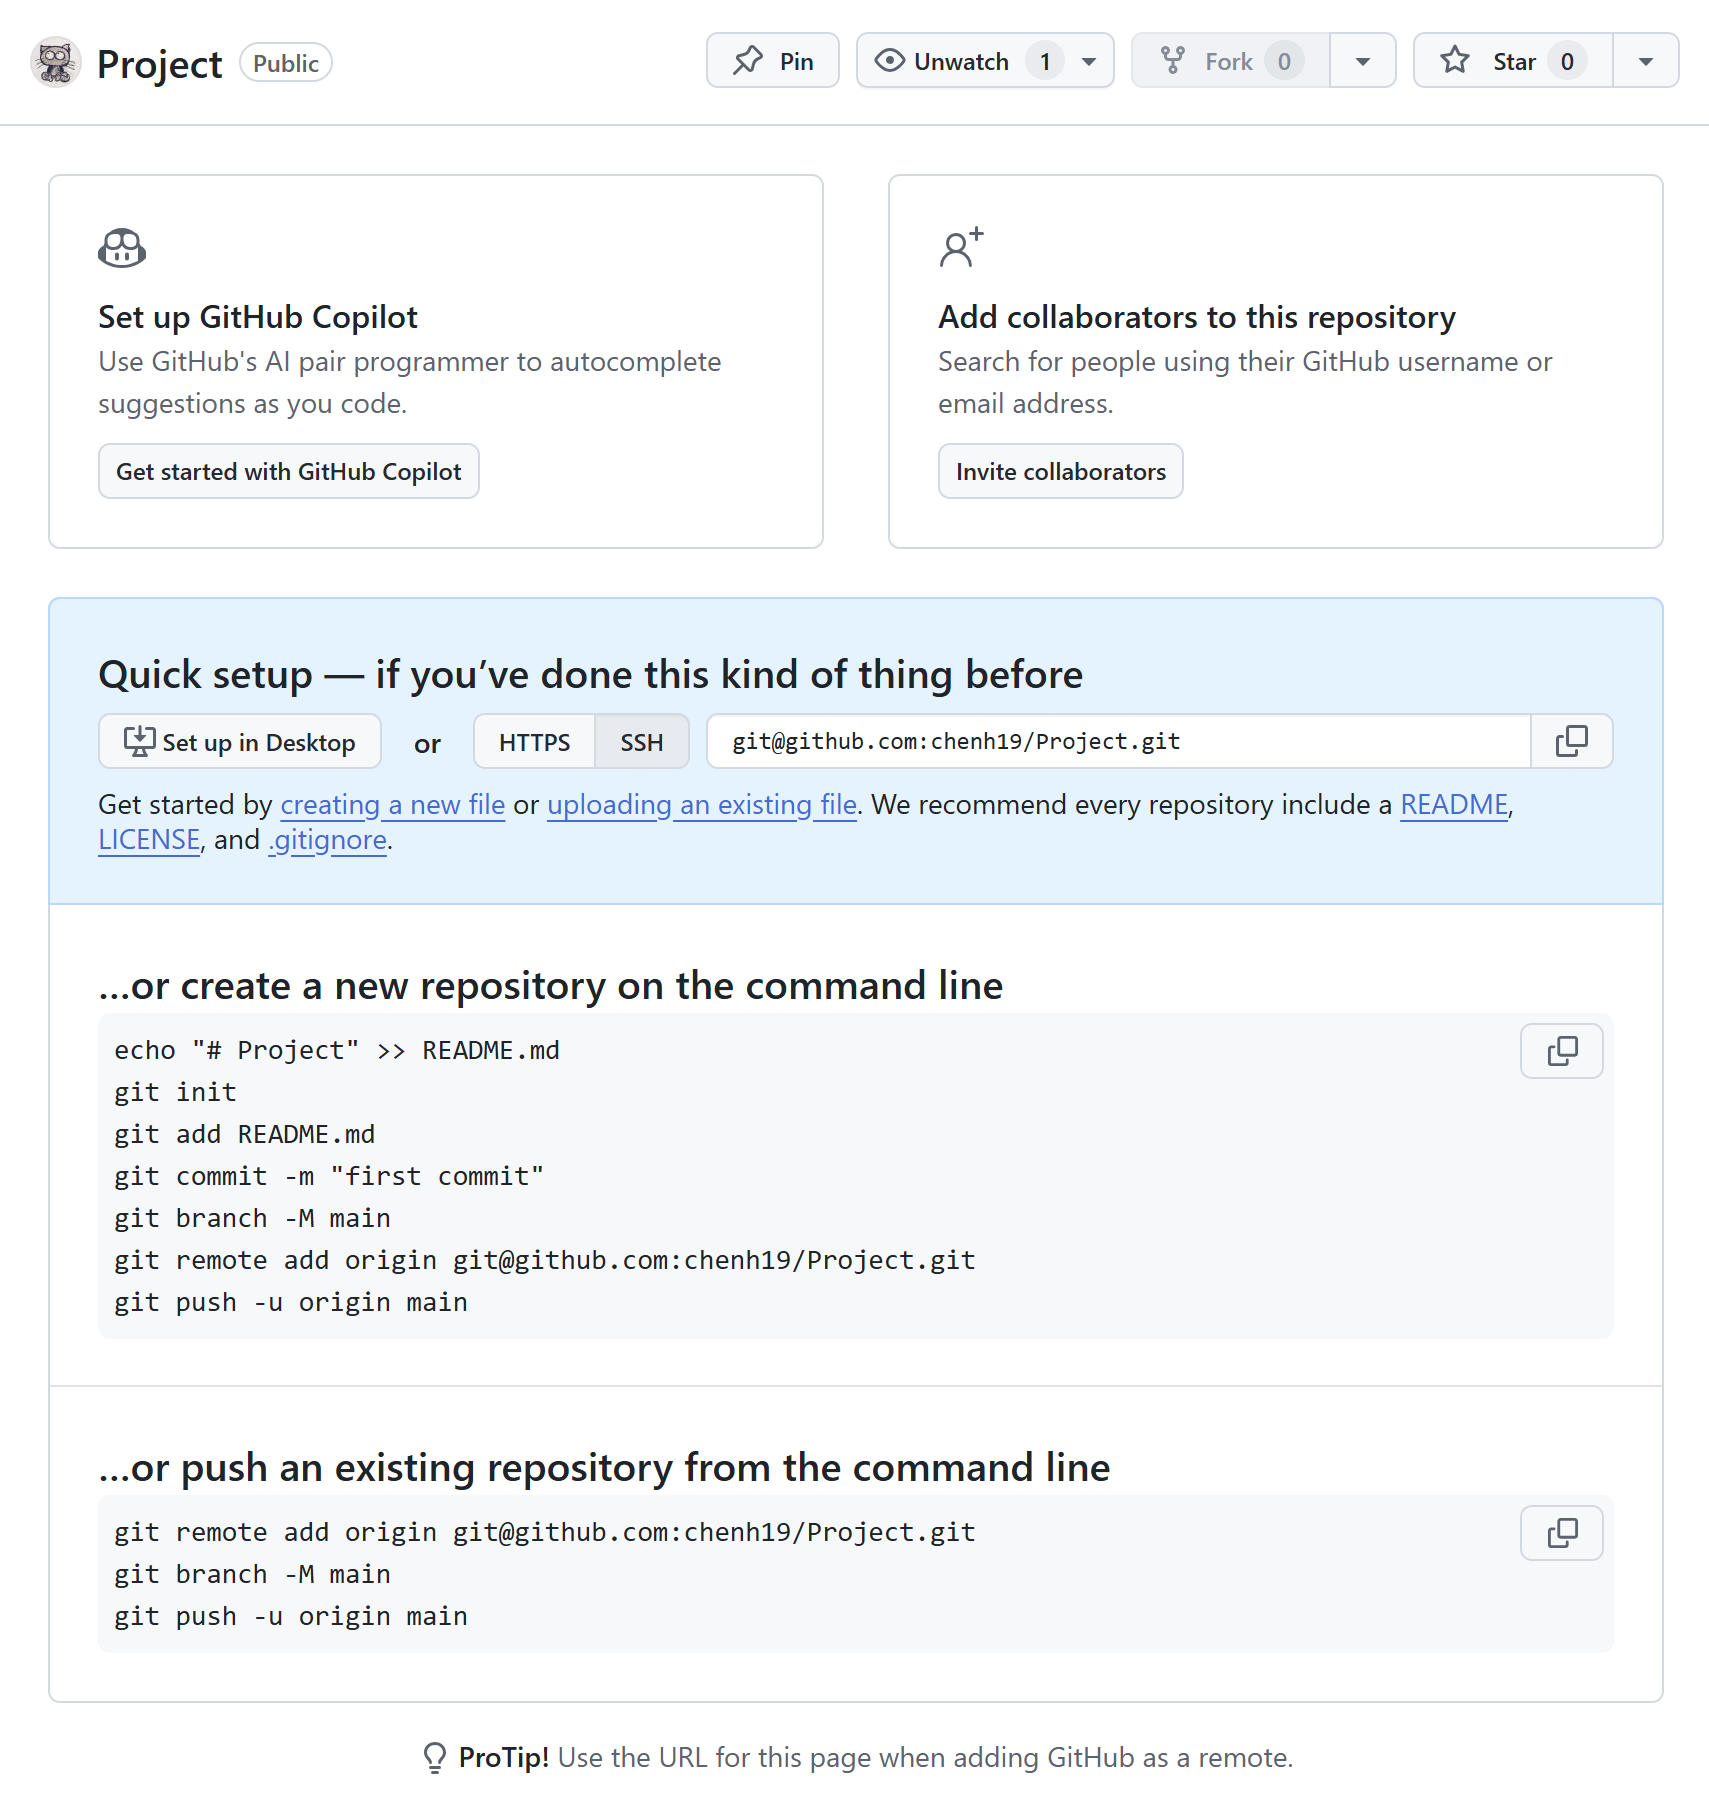
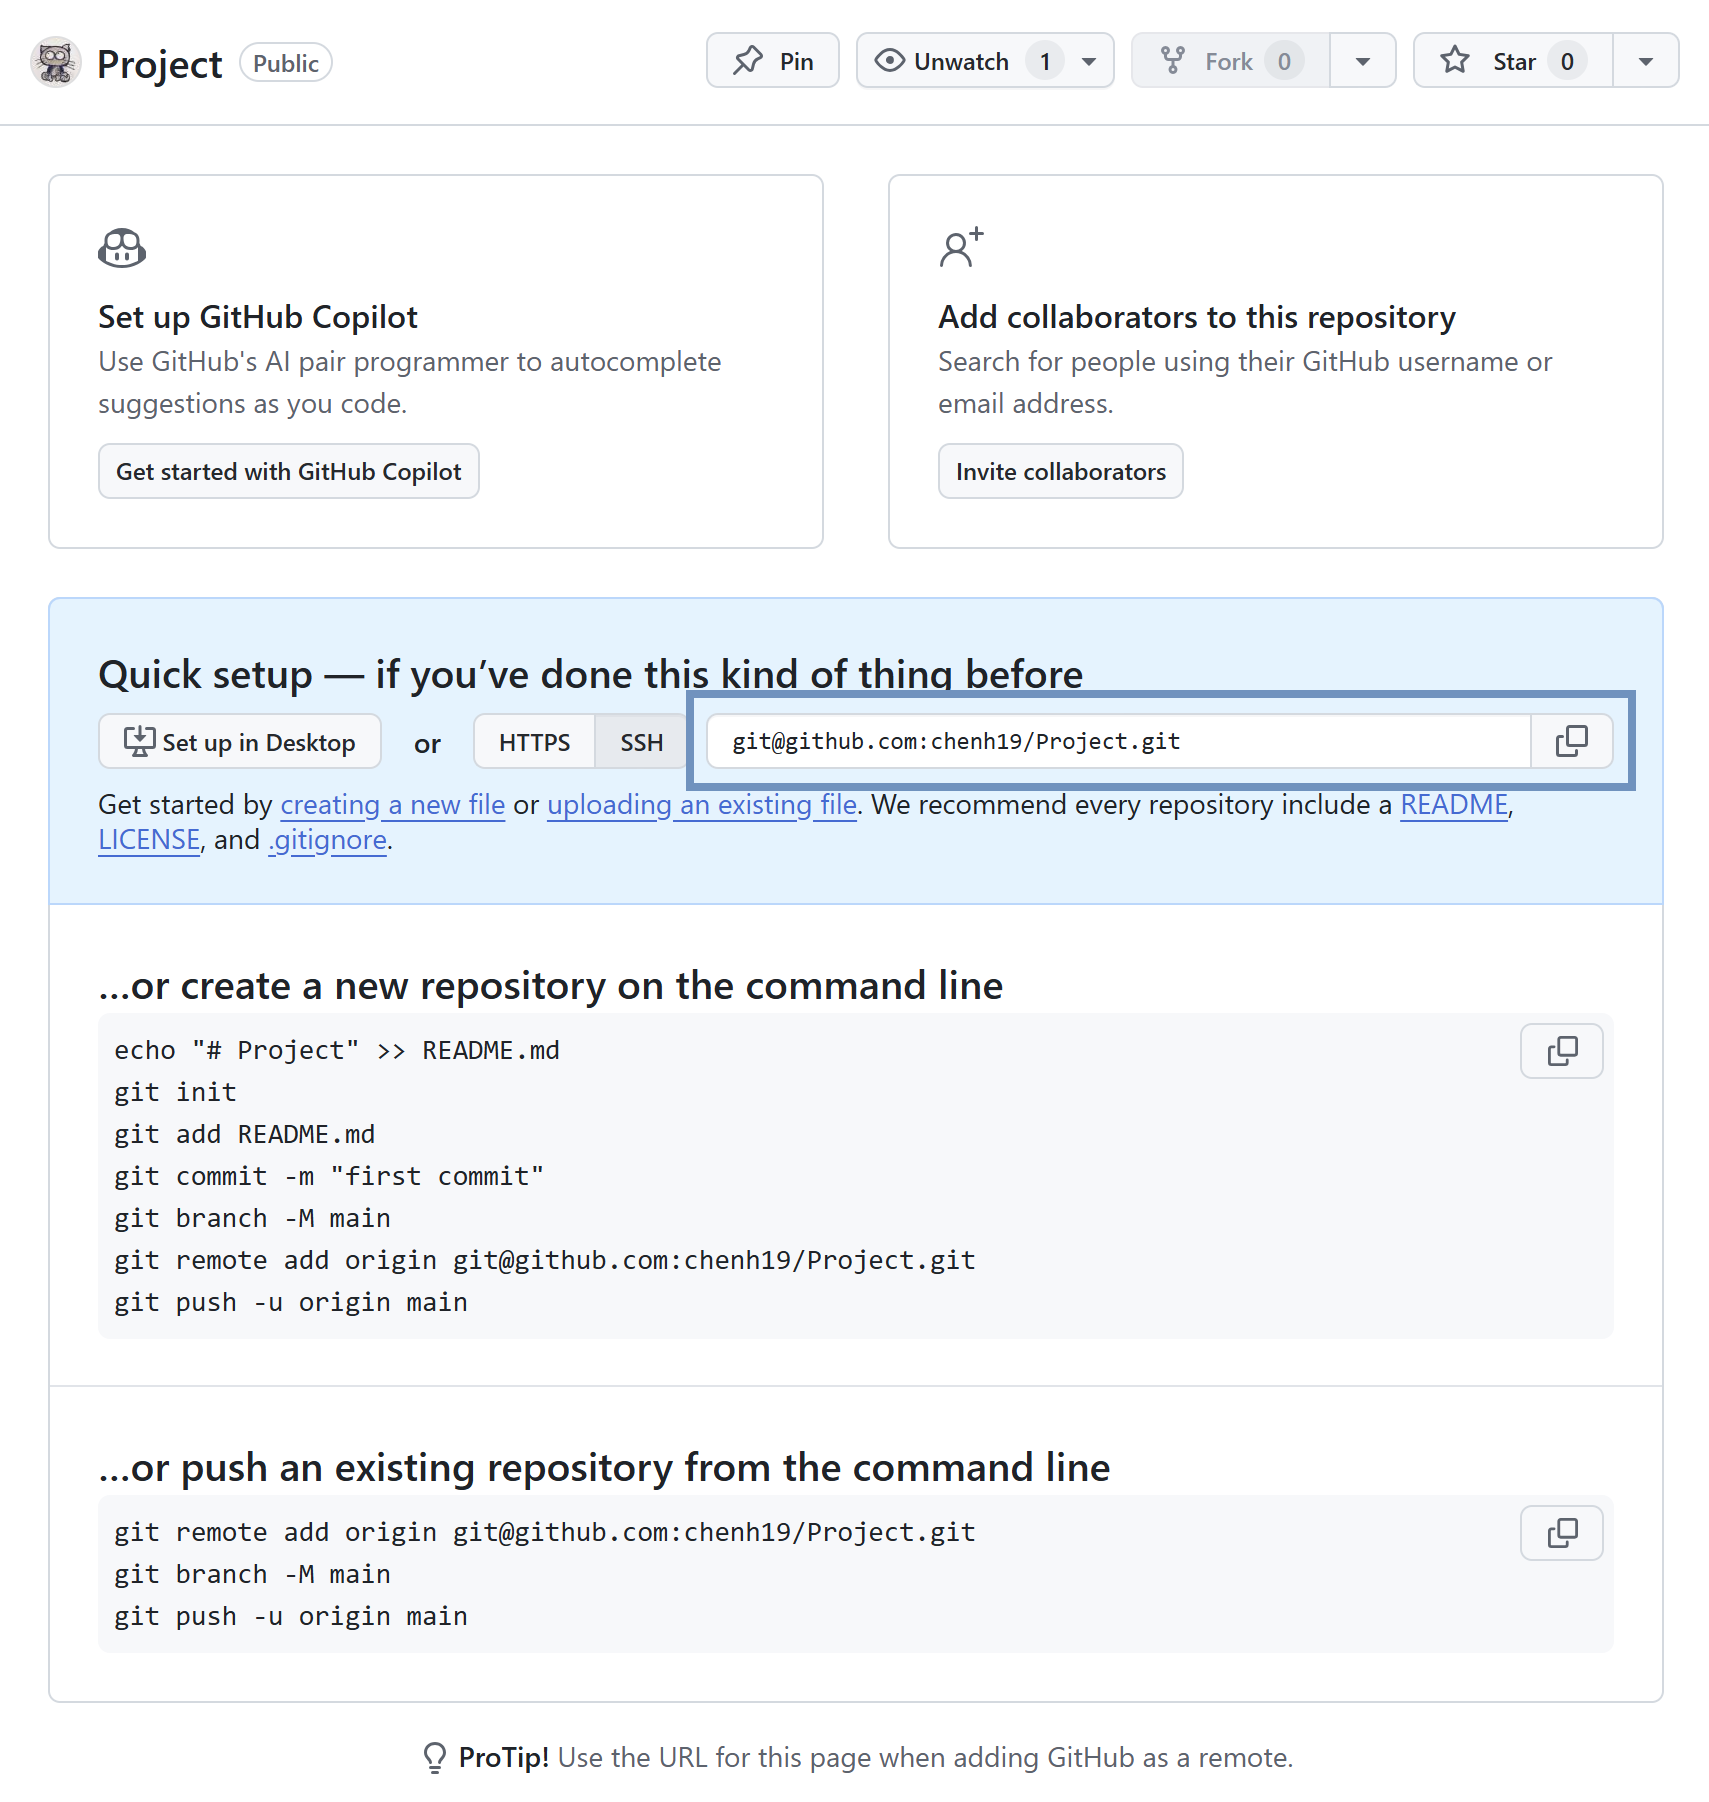
update

Changed region(s): [[0.4032, 0.3729, 0.9614, 0.4661]]

diff --git a/docs/misc.html b/docs/misc.html
@@ -226,15 +226,15 @@ pre > code.sourceCode > span > a:first-child::before { text-decoration: underlin
 </ul>
 <div class="quarto-figure quarto-figure-center">
 <figure class="figure">
-<p><img src="https://raw.githubusercontent.com/chenh19/Quarto/refs/heads/main/images/misc/1.png" class="img-fluid quarto-figure quarto-figure-center figure-img" style="width:70.0%"></p>
+<p><img src="https://raw.githubusercontent.com/chenh19/Quarto/refs/heads/main/images/misc/1.png" class="img-fluid quarto-figure quarto-figure-center figure-img" style="width:75.0%"></p>
 </figure>
 </div>
 <ul>
-<li>After creating the repository, you will see the following:</li>
+<li>After creating the repository, you will see the following (copy the SSH link, you will need it in the next step):</li>
 </ul>
 <div class="quarto-figure quarto-figure-center">
 <figure class="figure">
-<p><img src="https://raw.githubusercontent.com/chenh19/Quarto/refs/heads/main/images/misc/2.png" class="img-fluid quarto-figure quarto-figure-center figure-img" style="width:70.0%"></p>
+<p><img src="https://raw.githubusercontent.com/chenh19/Quarto/refs/heads/main/images/misc/2.png" class="img-fluid quarto-figure quarto-figure-center figure-img" style="width:75.0%"></p>
 </figure>
 </div>
 <ul>
@@ -264,14 +264,20 @@ pre > code.sourceCode > span > a:first-child::before { text-decoration: underlin
 </section>
 <section id="modify-it-as-you-like" class="level2">
 <h2 class="anchored" data-anchor-id="modify-it-as-you-like">5. Modify it as you like</h2>
+<ul>
+<li>Modify the <code>.yml</code> file for your website:</li>
+</ul>
 <div class="quarto-figure quarto-figure-center">
 <figure class="figure">
-<p><img src="https://raw.githubusercontent.com/chenh19/Quarto/refs/heads/main/images/misc/6.png" class="img-fluid quarto-figure quarto-figure-center figure-img" style="width:80.0%"></p>
+<p><img src="https://raw.githubusercontent.com/chenh19/Quarto/refs/heads/main/images/misc/6.png" class="img-fluid quarto-figure quarto-figure-center figure-img" style="width:75.0%"></p>
 </figure>
 </div>
+<ul>
+<li>Modify your <code>.Rmd/.qmd/.ipynb</code> notes:</li>
+</ul>
 <div class="quarto-figure quarto-figure-center">
 <figure class="figure">
-<p><img src="https://raw.githubusercontent.com/chenh19/Quarto/refs/heads/main/images/misc/7.png" class="img-fluid quarto-figure quarto-figure-center figure-img" style="width:80.0%"></p>
+<p><img src="https://raw.githubusercontent.com/chenh19/Quarto/refs/heads/main/images/misc/7.png" class="img-fluid quarto-figure quarto-figure-center figure-img" style="width:85.0%"></p>
 </figure>
 </div>
 <section id="push-your-website-to-your-github-repository" class="level3">
